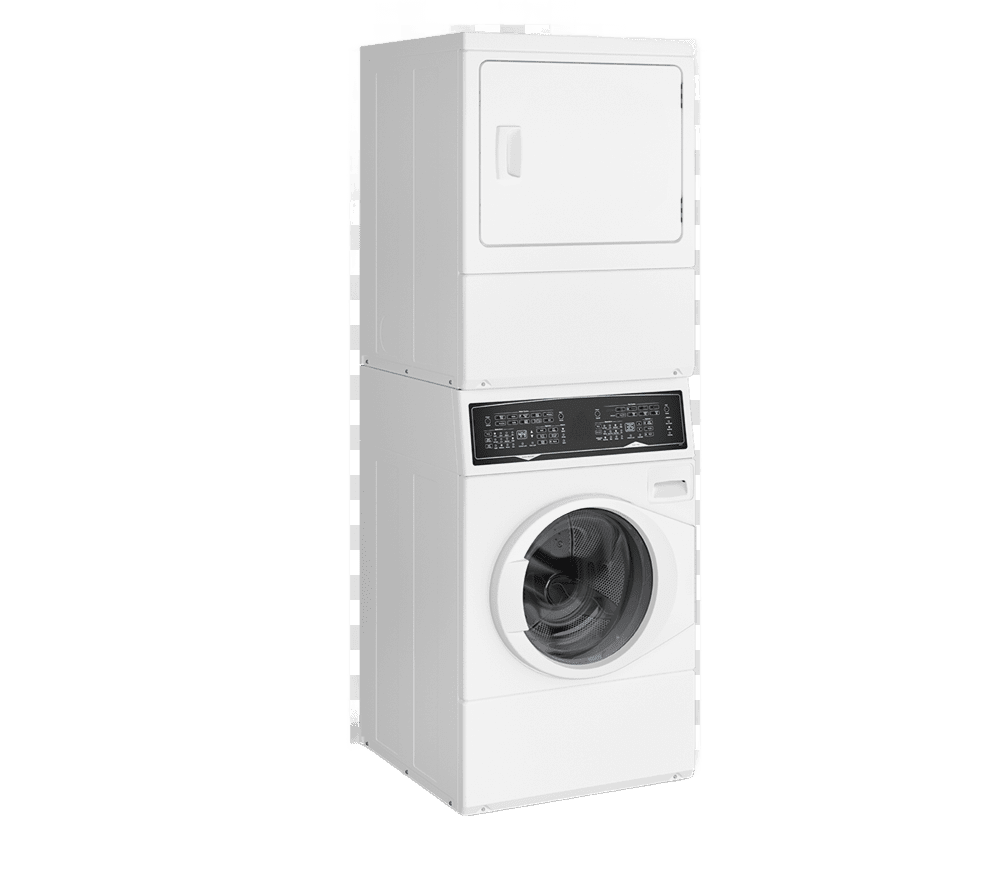
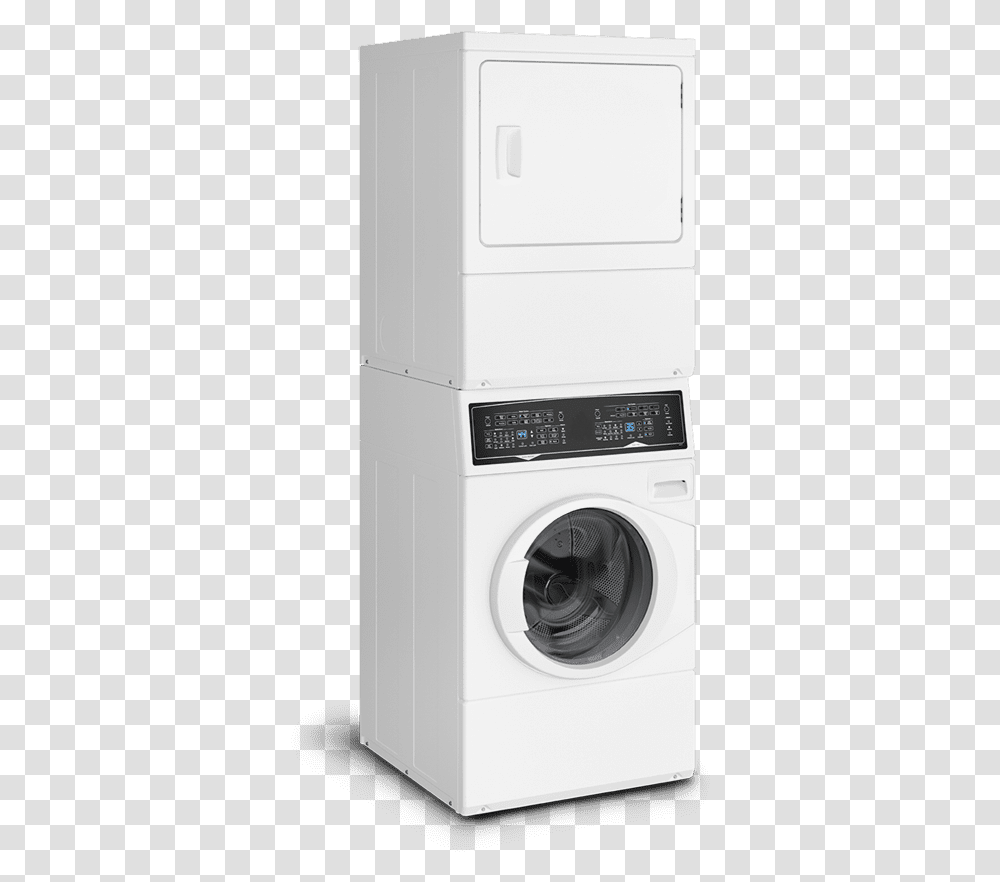
Fix washer image — remove white bg, rename jpg to png, update reference
- Replace washer.jpg with washer.png (transparent background)
- Remove white background from cooktop.png and dryer.png
- Update functions.php: washer image reference jpg → png

diff --git a/Monogram-repair-theme/functions.php b/Monogram-repair-theme/functions.php
@@ -1080,7 +1080,7 @@ function brp_get_services() {
             'title' => 'Monogram Washer Repair',
             'icon'  => '🫧',
             'desc'  => 'Monogram washer not spinning, draining, or starting? We service all models with same-day availability.',
-            'image' => 'washer.jpg',
+            'image' => 'washer.png',
         ),
     );
 }
